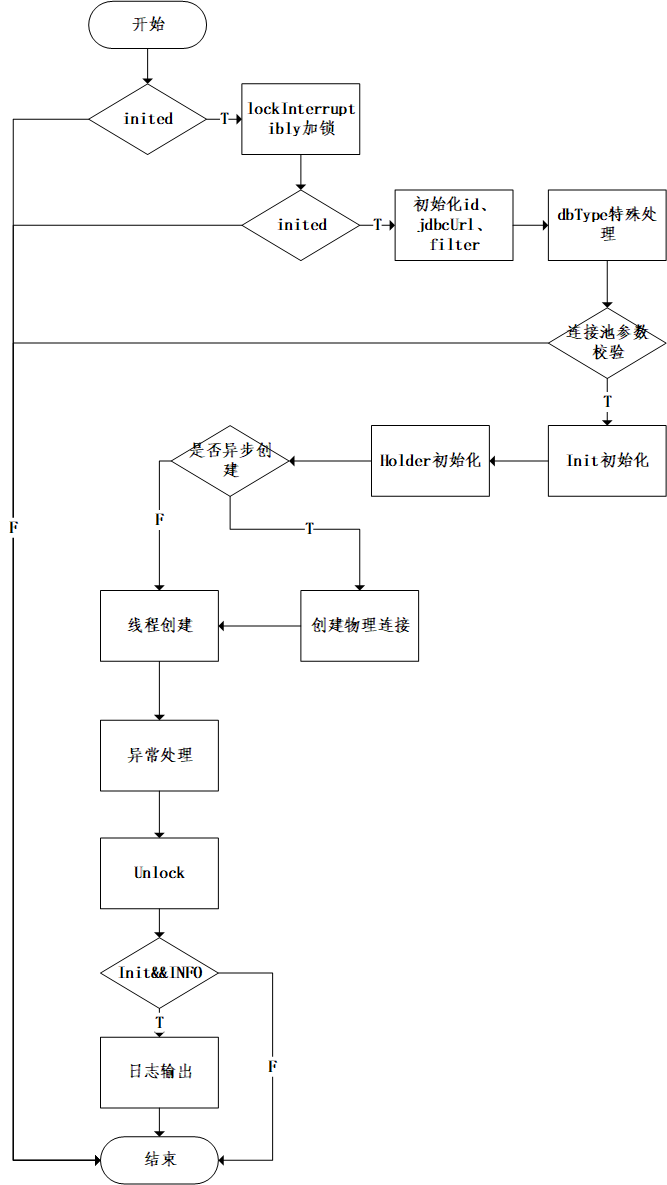
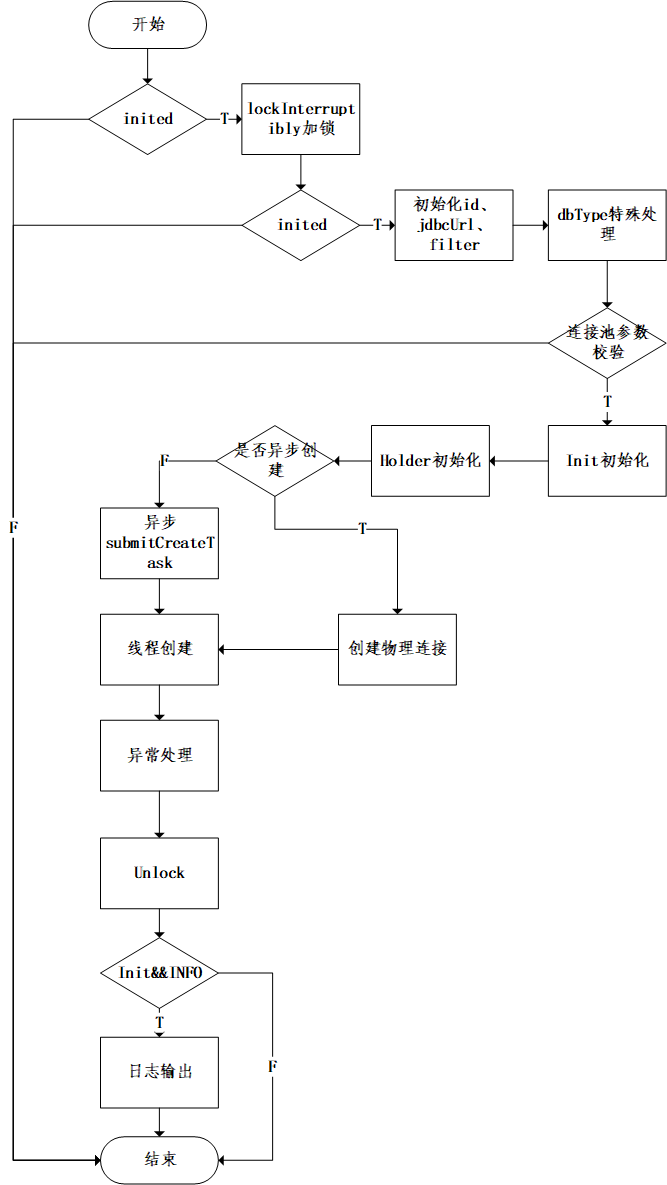
修改 连接异步和同步创建的过程

Changed region(s): [[0.1499, 0.3747, 0.5097, 0.5932], [0.4498, 0.4996, 0.6897, 0.562], [0.5397, 0.4371, 0.5697, 0.4684]]

diff --git a/doc/SourceCode/druid/Druid源码阅读2-DruidDataSource的init过程.md b/doc/SourceCode/druid/Druid源码阅读2-DruidDataSource的init过程.md
@@ -51,12 +51,26 @@ connections = new DruidConnectionHolder[maxActive];
 evictConnections = new DruidConnectionHolder[maxActive];
 keepAliveConnections = new DruidConnectionHolder[maxActive];
 ```
-
+## 1.3 创建连接
 判断是否进行异步初始化： if (createScheduler != null && asyncInit) 。
 如果异步初始化，调用通过submitCreateTask进行。
-如果poolingCount < initialSize，则创建物理连接。但是在默认的的初始化过程中，如果不通过其他配置参数指定，这个条件不会被触发，这可以看做是DruidDataSource的懒加载，只有真正需要Connection的时候，才会去创建物理的连接。
+如果poolingCount < initialSize，则创建物理连接。
+如果initialSize不配置为0，在初始化过程中，这个条件不会被触发，这样只有真正需要Connection的时候，才会去创建物理的连接。
+如果指定了initialSize，则在初始化的过程中，初始化线程就创建了initialSize的连接的holder并放置到connections中。
+```
+//判断当前在pool中的holder数量是否小于初始化参数指定的initialSize
+ while (poolingCount < initialSize) {
+    try {
+        PhysicalConnectionInfo pyConnectInfo = createPhysicalConnection();
+        DruidConnectionHolder holder = new DruidConnectionHolder(this, pyConnectInfo);
+        connections[poolingCount++] = holder;
+        
+        ... ...
+```
+在同步初始化的条件下，初始化操作将通过init线程进行。而后续由于连接池使用过程中动态的收缩和扩展，则是由其他单独的线程来完成。
+反之，如果需要进行异步初始化，则会调用submitCreateTask方法来异步进行。
 
-## 1.3 创建线程
+## 1.4 创建线程
 创建如下线程：
 ```
 //创建日志线程  但是这个线程的条件timeBetweenLogStatsMillis大于0，如果这个参数没有配置，日志线程不会创建。
@@ -75,7 +89,7 @@ initedLatch会在createAndStartCreatorThread与createAndStartDestroyThread都执
 之后 init 状态为true,并初始化initedTime时间为当前的Date时间。注册registerMbean。
 如果keepAlive为true,还需调用submitCreateTask方法，将连接填充到minIdle。确保空闲的连接可用。
 
-## 1.4 finally处理
+## 1.5 finally处理
 finally处理逻辑：
 修改inited为true,并解锁。
 判断init和日志的INFO状态，打印一条init完成的日志。
